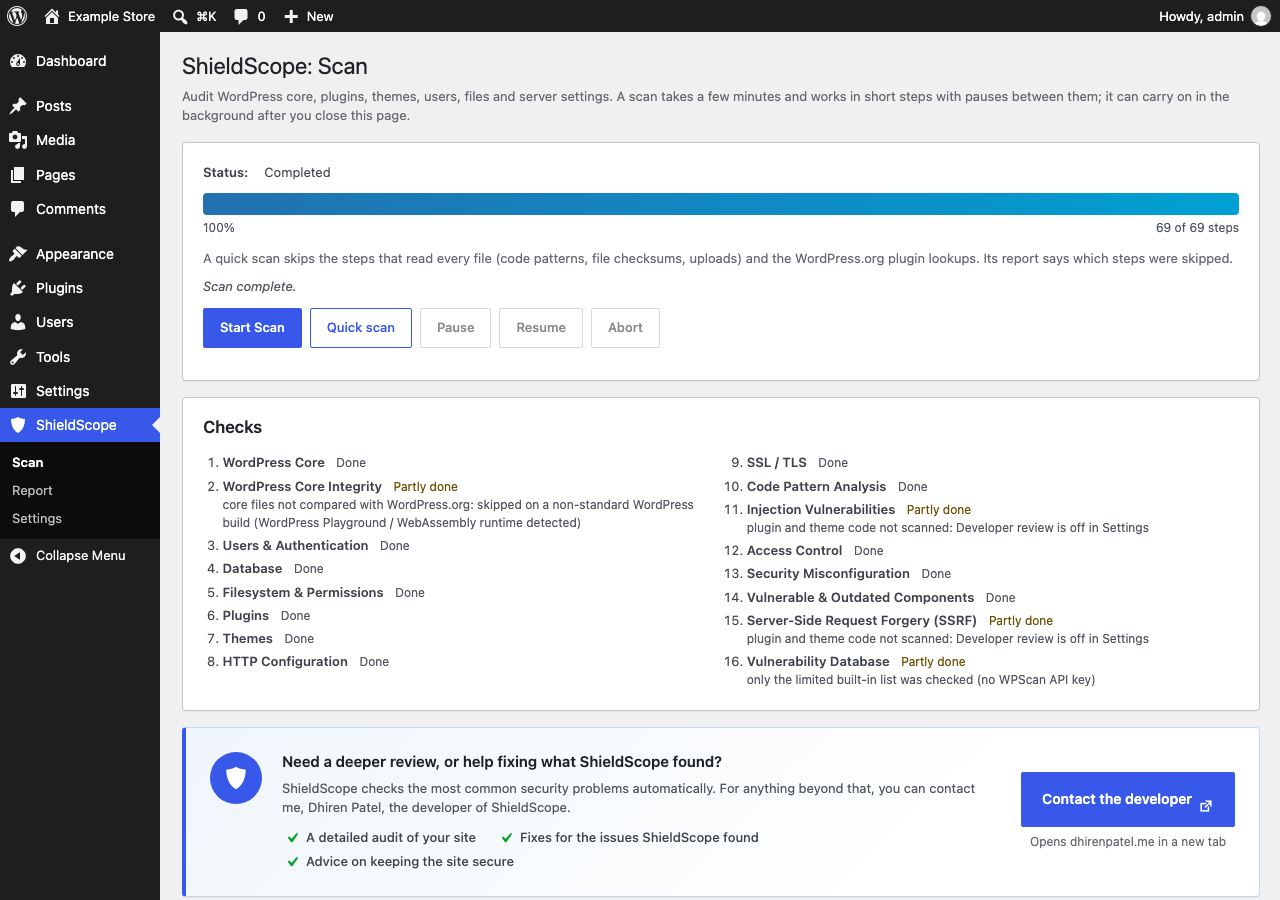
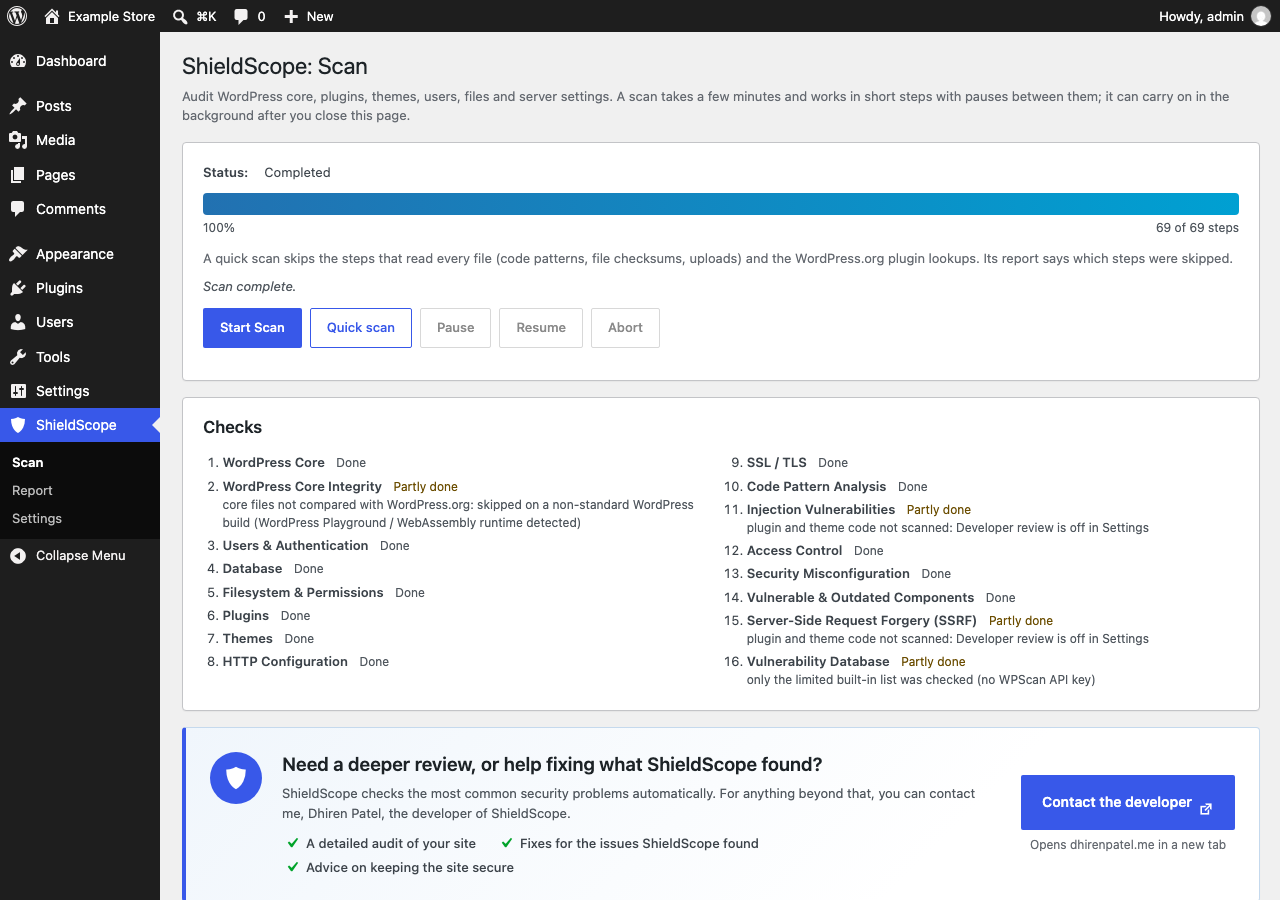
Help section: larger heading; same section closes the PDF report
- Screen heading 1.45em (1.25em on narrow screens).
- The PDF ends with the same section (heading, text, three points,
  "Contact the developer" button linking to
  https://www.dhirenpatel.me/contact/, and the address under it). It
  follows Settings → Downloaded reports, like the footer link.
- Heading, text, points and button text come from one place
  (ShieldScope_Admin::help_content()) for the screens and the PDF.
- The Report screen shows the section before the first scan too.
- Readme and screenshots 1, 2 and 4 updated.

Checked on a Playground site: the 9-page PDF ends with the section.
Tests: 2 added in test-s06-pdf-export.php. Suite: 448 passing.

Changed region(s): [[0.2188, 0.84, 0.75, 0.9644], [0.125, 0.9956, 1.0, 1.0], [0.8125, 0.84, 0.9688, 0.9644]]

diff --git a/admin/css/admin.css b/admin/css/admin.css
@@ -788,9 +788,9 @@ details.shieldscope-faq-item[open] > summary .shieldscope-faq-chevron {
 }
 
 .shieldscope-help-body h2 {
-	margin: 0 0 6px;
-	font-size: 1.15em;
-	line-height: 1.4;
+	margin: 0 0 8px;
+	font-size: 1.45em;
+	line-height: 1.3;
 }
 
 .shieldscope-help-body p {
@@ -856,6 +856,10 @@ details.shieldscope-faq-item[open] > summary .shieldscope-faq-chevron {
 
 	.shieldscope-help-action {
 		align-items: stretch;
+	}
+
+	.shieldscope-help-body h2 {
+		font-size: 1.25em;
 	}
 
 	.shieldscope-help-box .shieldscope-help-button {

diff --git a/includes/class-shieldscope-admin.php b/includes/class-shieldscope-admin.php
@@ -120,21 +120,22 @@ class ShieldScope_Admin {
 	 * @return void
 	 */
 	public static function render_help_box() {
+		$help = self::help_content();
 		?>
 		<div class="shieldscope-card shieldscope-help-box">
 			<span class="shieldscope-help-icon" aria-hidden="true"><span class="dashicons dashicons-shield-alt"></span></span>
 			<div class="shieldscope-help-body">
-				<h2><?php esc_html_e( 'Need a deeper review, or help fixing what ShieldScope found?', 'shieldscope-site-security-scanner' ); ?></h2>
-				<p><?php esc_html_e( 'ShieldScope checks the most common security problems automatically. For anything beyond that, you can contact me, Dhiren Patel, the developer of ShieldScope.', 'shieldscope-site-security-scanner' ); ?></p>
+				<h2><?php echo esc_html( $help['heading'] ); ?></h2>
+				<p><?php echo esc_html( $help['text'] ); ?></p>
 				<ul class="shieldscope-help-points">
-					<li><span class="dashicons dashicons-yes" aria-hidden="true"></span><?php esc_html_e( 'A detailed audit of your site', 'shieldscope-site-security-scanner' ); ?></li>
-					<li><span class="dashicons dashicons-yes" aria-hidden="true"></span><?php esc_html_e( 'Fixes for the issues ShieldScope found', 'shieldscope-site-security-scanner' ); ?></li>
-					<li><span class="dashicons dashicons-yes" aria-hidden="true"></span><?php esc_html_e( 'Advice on keeping the site secure', 'shieldscope-site-security-scanner' ); ?></li>
+					<?php foreach ( $help['points'] as $shieldscope_point ) : ?>
+						<li><span class="dashicons dashicons-yes" aria-hidden="true"></span><?php echo esc_html( $shieldscope_point ); ?></li>
+					<?php endforeach; ?>
 				</ul>
 			</div>
 			<div class="shieldscope-help-action">
 				<a class="button button-primary shieldscope-help-button" href="<?php echo esc_url( self::HELP_URL ); ?>" target="_blank" rel="noopener noreferrer">
-					<?php esc_html_e( 'Contact the developer', 'shieldscope-site-security-scanner' ); ?>
+					<?php echo esc_html( $help['button'] ); ?>
 					<span class="dashicons dashicons-external" aria-hidden="true"></span>
 					<span class="screen-reader-text"><?php esc_html_e( '(opens in a new tab)', 'shieldscope-site-security-scanner' ); ?></span>
 				</a>
@@ -145,8 +146,27 @@ class ShieldScope_Admin {
 	}
 
 	/**
-	 * Show the developer's contact link in downloaded reports (PDF footer,
-	 * last CSV row, JSON "help")? On by default; Settings → Downloaded reports.
+	 * Text of the developer help section, shared by the plugin screens and
+	 * the last section of the PDF report.
+	 *
+	 * @return array{heading:string,text:string,points:string[],button:string}
+	 */
+	public static function help_content() {
+		return array(
+			'heading' => __( 'Need a deeper review, or help fixing what ShieldScope found?', 'shieldscope-site-security-scanner' ),
+			'text'    => __( 'ShieldScope checks the most common security problems automatically. For anything beyond that, you can contact me, Dhiren Patel, the developer of ShieldScope.', 'shieldscope-site-security-scanner' ),
+			'points'  => array(
+				__( 'A detailed audit of your site', 'shieldscope-site-security-scanner' ),
+				__( 'Fixes for the issues ShieldScope found', 'shieldscope-site-security-scanner' ),
+				__( 'Advice on keeping the site secure', 'shieldscope-site-security-scanner' ),
+			),
+			'button'  => __( 'Contact the developer', 'shieldscope-site-security-scanner' ),
+		);
+	}
+
+	/**
+	 * Show the developer's contact link in downloaded reports (PDF footer and
+	 * last section, last CSV row, JSON "help")? On by default; Settings → Downloaded reports.
 	 *
 	 * @return bool
 	 */

diff --git a/includes/class-shieldscope-pdf-report.php b/includes/class-shieldscope-pdf-report.php
@@ -386,6 +386,23 @@ class ShieldScope_PDF_Report {
 		}
 		$html .= '<p class="small">' . $e( __( 'File paths are shown relative to the WordPress root folder.', 'shieldscope-site-security-scanner' ) ) . '</p>';
 
+		// Last section: the developer help box (Settings → Downloaded reports).
+		if ( ShieldScope_Admin::report_help_link() ) {
+			$help   = ShieldScope_Admin::help_content();
+			$points = '';
+			foreach ( $help['points'] as $point ) {
+				$points .= '<li>' . $e( $point ) . '</li>';
+			}
+			$html .= '<div class="help"><table><tr><td class="help-body">'
+				. '<div class="help-title">' . $e( $help['heading'] ) . '</div>'
+				. '<p>' . $e( $help['text'] ) . '</p>'
+				. '<ul class="help-points">' . $points . '</ul>'
+				. '</td><td class="help-action">'
+				. '<a class="help-button" href="' . $e( ShieldScope_Admin::HELP_URL ) . '">' . $e( $help['button'] ) . '</a>'
+				. '<div class="help-url">' . $e( ShieldScope_Admin::HELP_URL ) . '</div>'
+				. '</td></tr></table></div>';
+		}
+
 		$html .= '</body></html>';
 		return $html;
 	}
@@ -426,6 +443,16 @@ class ShieldScope_PDF_Report {
 			. '.small{font-size:8.5px;color:#50575e}'
 			. '.cov{margin:2px 0 8px}'
 			. 'table.checks{width:100%;border-collapse:collapse;font-size:8.5px}'
+			. '.help{margin-top:22px;border:1px solid #c5d9ed;border-left:4px solid #2271b1;background:#f0f6fc;padding:12px 14px;page-break-inside:avoid}'
+			. '.help table{width:100%;border-collapse:collapse}'
+			. '.help td{vertical-align:middle;padding:0}'
+			. '.help-title{font-size:14px;font-weight:bold;color:#1a3a5c;margin-bottom:4px}'
+			. '.help p{margin:0 0 6px;color:#3c434a}'
+			. 'ul.help-points{margin:0 0 0 14px;padding:0}'
+			. 'ul.help-points li{margin:1px 0;font-weight:bold}'
+			. 'td.help-action{width:175px;text-align:center;padding-left:14px}'
+			. 'a.help-button{display:block;white-space:nowrap;background:#2271b1;color:#fff;text-decoration:none;font-weight:bold;font-size:11px;padding:9px 8px;border-radius:3px}'
+			. '.help-url{font-size:7.5px;color:#50575e;margin-top:4px}'
 			. 'table.checks td{border-bottom:1px solid #f0f0f1;padding:2px 4px;vertical-align:top}'
 			. '.st-partial{color:#6b4d00}.st-error,.st-not_run{color:#8a1a1a}'
 			. '.conf{font-size:7.5px;font-weight:bold;border:1px solid #c3c4c7;padding:0 3px;color:#50575e}'

diff --git a/tests/test-s06-pdf-export.php b/tests/test-s06-pdf-export.php
@@ -195,4 +195,17 @@ class Test_S06_PDF_Export extends TestCase {
 		$this->expectExceptionMessage( 'There is no completed scan to export' );
 		ShieldScope_PDF_Report::handle();
 	}
+
+	public function test_pdf_ends_with_the_developer_help_section() {
+		$html = ShieldScope_PDF_Report::build_html( $this->report( array( $this->finding( 'info', 'Info' ) ) ) );
+		$this->assertStringContainsString( 'Need a deeper review, or help fixing what ShieldScope found?', $html );
+		$this->assertStringContainsString( 'href="https://www.dhirenpatel.me/contact/"', $html );
+		$this->assertGreaterThan( strpos( $html, 'Method and limits' ), strpos( $html, 'class="help"' ), 'last section' );
+	}
+
+	public function test_pdf_help_section_follows_the_downloads_setting() {
+		update_option( 'shieldscope_settings', array( 'report_help_link' => 0 ) );
+		$html = ShieldScope_PDF_Report::build_html( $this->report( array( $this->finding( 'info', 'Info' ) ) ) );
+		$this->assertStringNotContainsString( 'class="help"', $html );
+	}
 }

diff --git a/admin/views/report.php b/admin/views/report.php
@@ -82,6 +82,9 @@ foreach ( (array) $findings as $f ) {
 				?>
 			</p>
 		</div>
+	<?php endif; ?>
+	<?php if ( empty( $last_scan ) || ( empty( $findings ) && empty( $shieldscope_ignored ) ) ) : ?>
+		<?php ShieldScope_Admin::render_help_box(); ?>
 	<?php else : ?>
 		<?php if ( ShieldScope_Logger::save_failed( $last_scan ) ) : ?>
 			<div class="notice notice-error">
